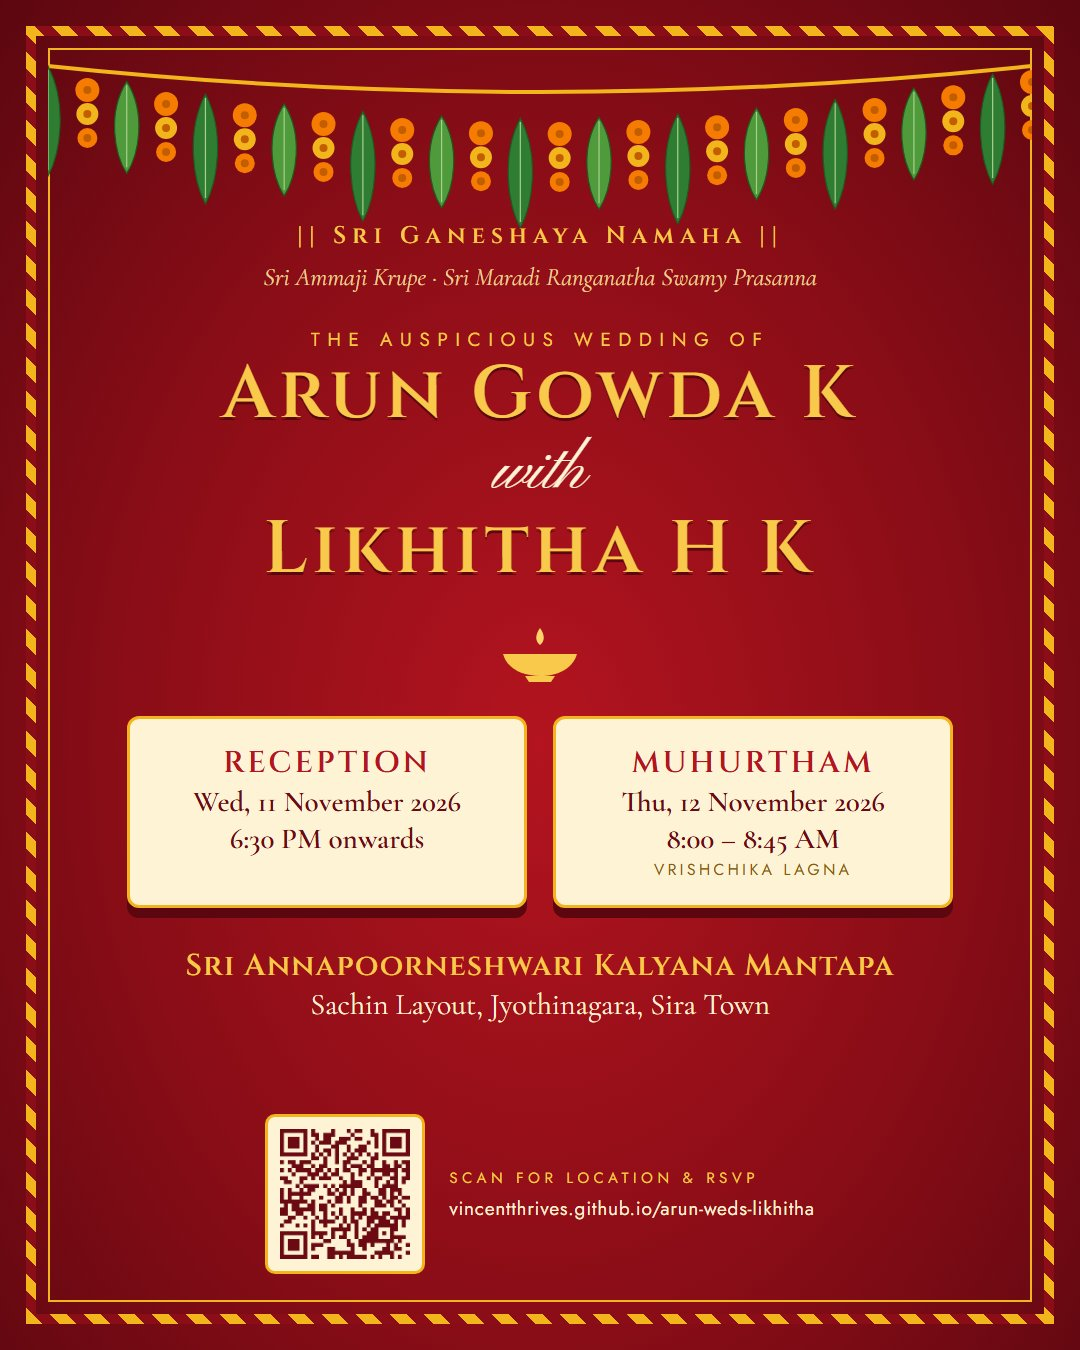
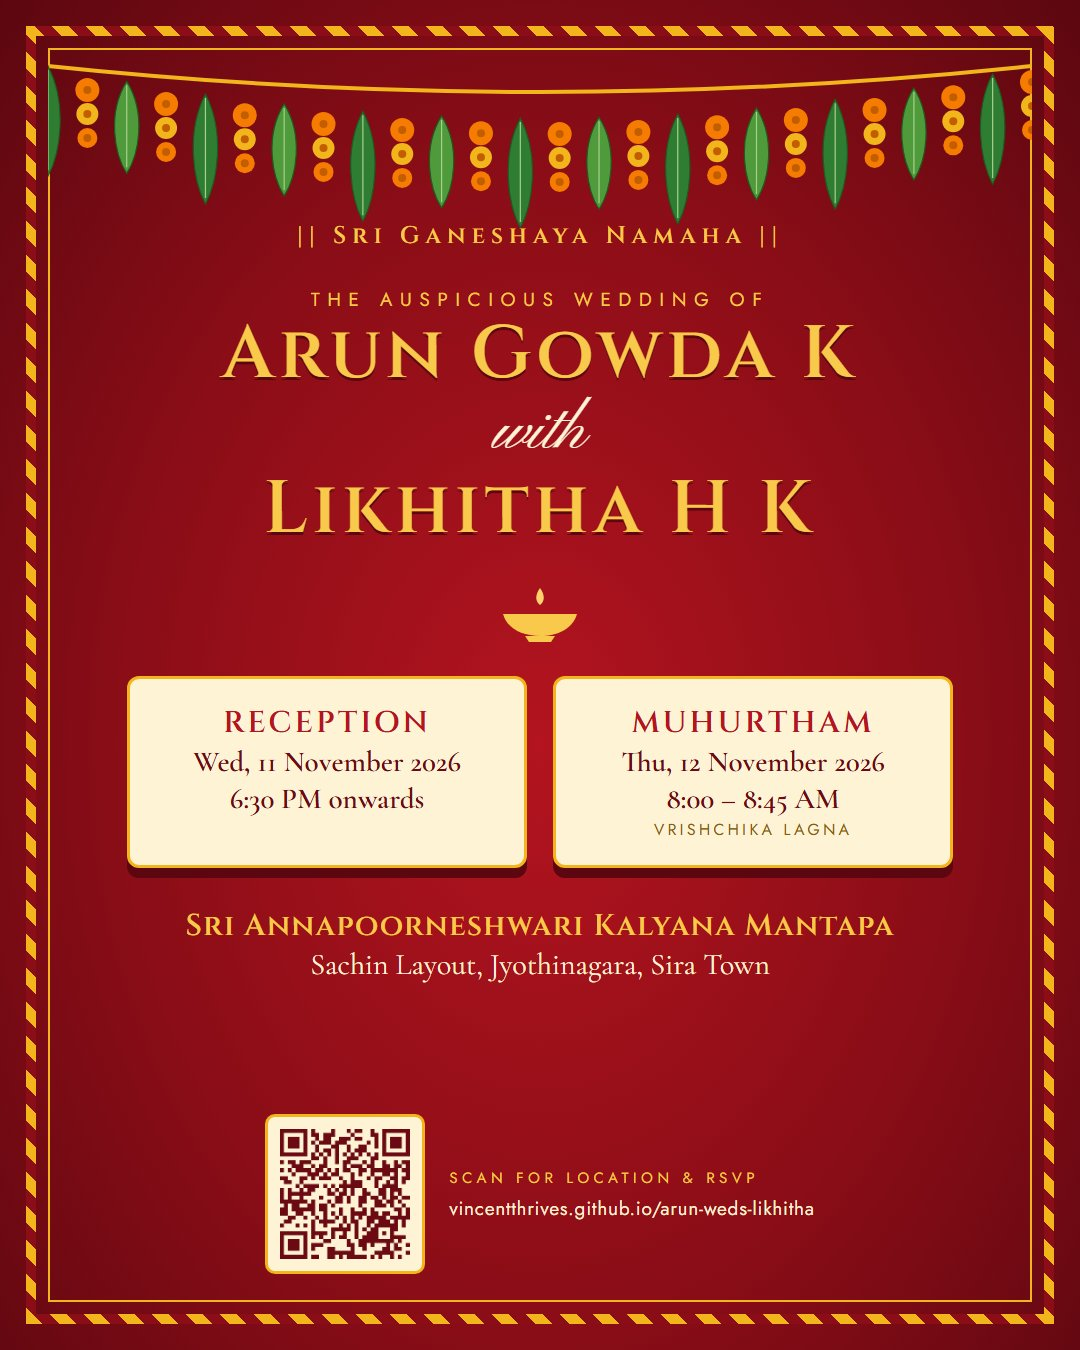
Remove Ammaji/Ranganatha blessing line and two host couples

Changed region(s): [[0.0917, 0.1867, 0.8861, 0.7778], [0.7028, 0.3422, 0.7639, 0.4356]]

diff --git a/config.js b/config.js
@@ -4,7 +4,7 @@
    Leave a field "" (empty) to hide it on the page.
    ========================================================================== */
 window.WEDDING = {
-  blessing: "|| Sri Ammaji Krupe || Sri Maradi Ranganatha Swamy Prasanna ||",
+  blessing: "",
   elders: "With the blessings of Smt. Puttamma & Sri Late Palyada Kamegowda",
   groom: {
     name: "Arun Gowda K",
@@ -70,8 +70,6 @@ window.WEDDING = {
   hosts: [
     "Smt. M. Chandramma & Sri K. Kantharaju",
     "Smt. Bhagyalakshmi G.M & Sri Krishnappa H.K",
-    "Smt. Vidyashree K & Sri Narasimhamurthy P.R",
-    "Smt. Chandramma K & Sri Late Gangadharaiah B.C",
   ],
 
   // Top-right social icons

diff --git a/share/cards.html b/share/cards.html
@@ -412,7 +412,6 @@ const T = {
 
 4: () => `<div class="card d4"><div class="abs border"></div><div class="abs border2"></div>${toran()}<div class="inner">
   <div class="om">|| Sri Ganeshaya Namaha ||</div>
-  <div class="bl">Sri Ammaji Krupe · Sri Maradi Ranganatha Swamy Prasanna</div>
   <div class="eyebrow">The Auspicious Wedding of</div>
   <div class="nm">Arun Gowda K</div>
   <div class="and">with</div>
